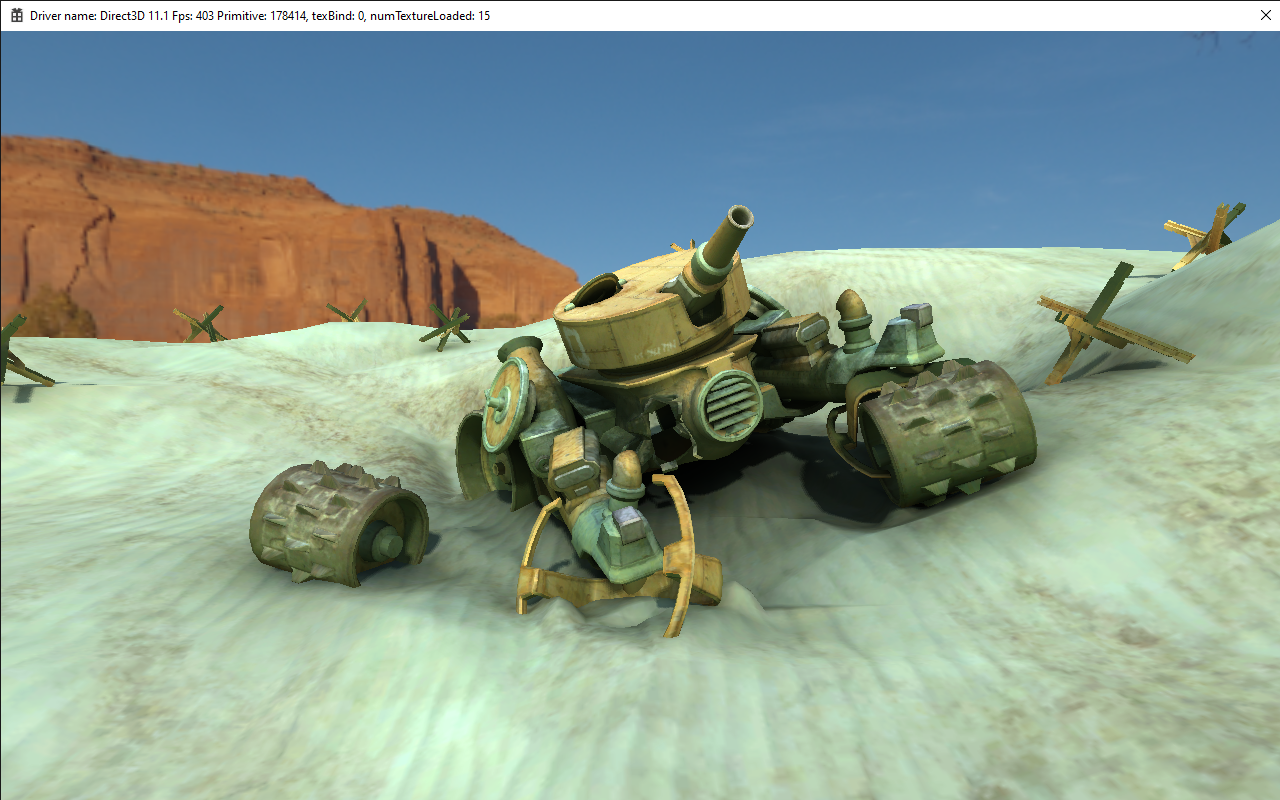
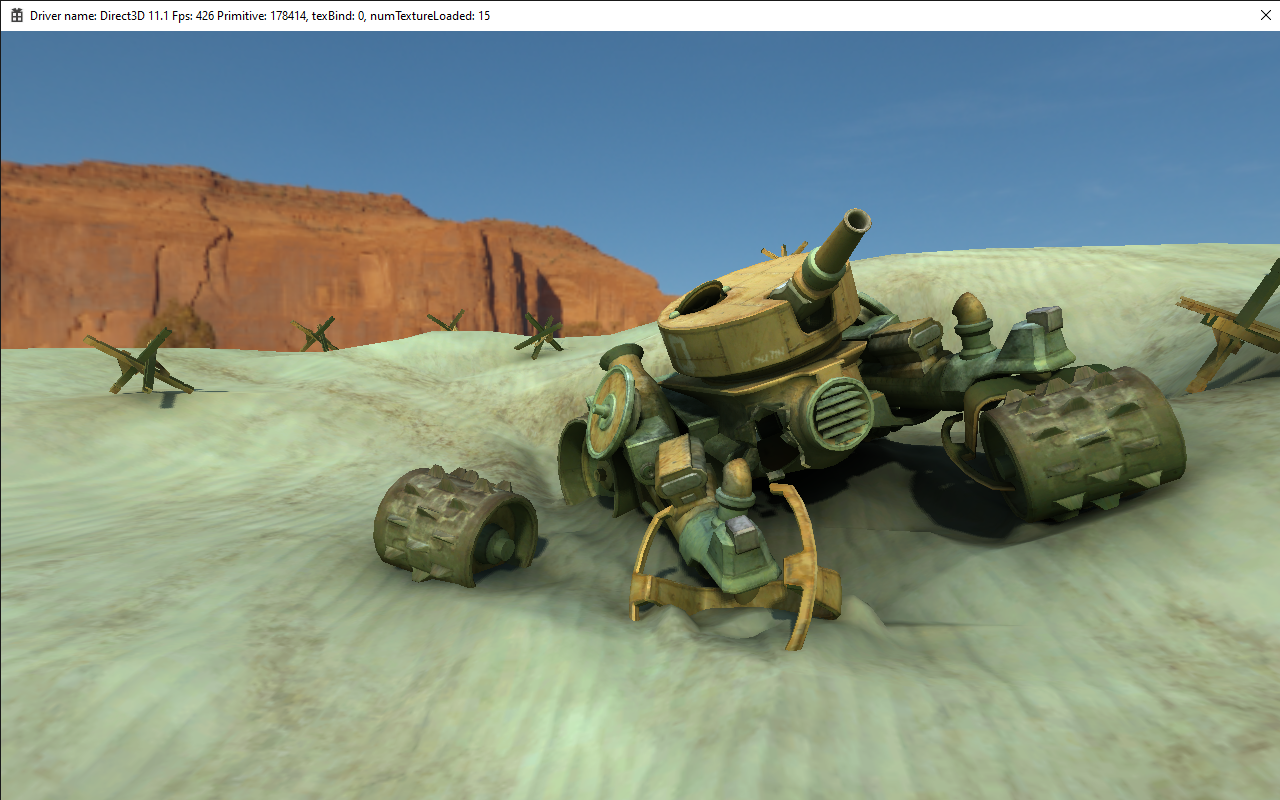
Update light color, fix error skinned mesh

diff --git a/Samples/TankScene/Source/CViewInit.cpp b/Samples/TankScene/Source/CViewInit.cpp
@@ -79,6 +79,9 @@ void CViewInit::initScene()
 	// lighting
 	CGameObject *lightObj = zone->createEmptyObject();
 	CDirectionalLight *directionalLight = lightObj->addComponent<CDirectionalLight>();
+	SColor c(255, 255, 244, 214);
+	directionalLight->setColor(SColorf(c));
+
 	CTransformEuler *lightTransform = lightObj->getTransformEuler();
 	lightTransform->setPosition(core::vector3df(2.0f, 2.0f, 2.0f));
 
@@ -172,8 +175,8 @@ void CViewInit::onUpdate()
 				// retry download
 				delete m_getFile;
 				m_getFile = NULL;
-			}
-		}
+	}
+	}
 #else
 
 		for (std::string& bundle : listBundles)
@@ -186,7 +189,7 @@ void CViewInit::onUpdate()
 #else
 			fileSystem->addFileArchive(r, false, false);
 #endif
-		}
+}
 
 		m_initState = CViewInit::InitScene;
 #endif

diff --git a/Projects/Skylicht/Engine/Source/RenderPipeline/CDeferredRP.cpp b/Projects/Skylicht/Engine/Source/RenderPipeline/CDeferredRP.cpp
@@ -48,7 +48,9 @@ namespace Skylicht
 		m_vertexColorShader(0),
 		m_textureColorShader(0),
 		m_pointLightShader(0),
-		m_pointLightShadowShader(0)
+		m_pointLightShadowShader(0),
+		m_indirectMultipler(1.2f),
+		m_directMultipler(0.7f)
 	{
 		m_type = IRenderPipeline::Deferred;
 	}
@@ -324,7 +326,7 @@ namespace Skylicht
 		if (CBaseRP::s_bakeMode == true)
 			CShaderManager::getInstance()->ShaderVec2[0] = core::vector2df(1.0f, 1.0f);
 		else
-			CShaderManager::getInstance()->ShaderVec2[0] = core::vector2df(0.7f, 1.5f);
+			CShaderManager::getInstance()->ShaderVec2[0] = core::vector2df(m_directMultipler, m_indirectMultipler);
 
 		// STEP 03:
 		// draw point lighting & spot lighting

diff --git a/Projects/Skylicht/Engine/Source/RenderPipeline/CDeferredRP.h b/Projects/Skylicht/Engine/Source/RenderPipeline/CDeferredRP.h
@@ -63,6 +63,8 @@ namespace Skylicht
 		int m_pointLightShader;
 		int m_pointLightShadowShader;
 
+		float m_indirectMultipler;
+		float m_directMultipler;
 	protected:
 
 		void initDefferredMaterial();
@@ -80,6 +82,16 @@ namespace Skylicht
 		virtual void render(ITexture *target, CCamera *camera, CEntityManager *entityManager, const core::recti& viewport);
 
 		virtual void drawMeshBuffer(CMesh *mesh, int bufferID, CEntityManager* entity, int entityID);
+
+		inline void setIndirectMultipler(float f)
+		{
+			m_indirectMultipler = f;
+		}
+
+		inline void setDirectMultipler(float f)
+		{
+			m_directMultipler = f;
+		}
 
 		static void enableRenderIndirect(bool b);
 

diff --git a/Samples/SampleFW/Context/CContext.h b/Samples/SampleFW/Context/CContext.h
@@ -20,7 +20,7 @@ protected:
 	std::vector<CLightProbe*> m_probes;
 
 	CBaseRP *m_beginRP;
-	CBaseRP	*m_rendering;
+	CDeferredRP	*m_rendering;
 	CShadowMapRP *m_shadowMapRendering;
 	CForwardRP *m_forwardRP;
 
@@ -46,6 +46,11 @@ public:
 	inline CBaseRP* getRenderPipeline()
 	{
 		return m_beginRP;
+	}
+
+	inline CDeferredRP* getDefferredRP()
+	{
+		return m_rendering;
 	}
 
 	inline CForwardRP* getForwarderRP()

diff --git a/Samples/LightmappingVertex/Source/CViewInit.cpp b/Samples/LightmappingVertex/Source/CViewInit.cpp
@@ -79,6 +79,9 @@ void CViewInit::initScene()
 	// lighting
 	CGameObject *lightObj = zone->createEmptyObject();
 	CDirectionalLight *directionalLight = lightObj->addComponent<CDirectionalLight>();
+	SColor c(255, 255, 244, 214);
+	directionalLight->setColor(SColorf(c));
+
 	CTransformEuler *lightTransform = lightObj->getTransformEuler();
 	lightTransform->setPosition(core::vector3df(2.0f, 2.0f, 2.0f));
 

diff --git a/Samples/SkinnedMesh/Source/SampleSkinnedMesh.cpp b/Samples/SkinnedMesh/Source/SampleSkinnedMesh.cpp
@@ -208,6 +208,7 @@ void SampleSkinnedMesh::onRender()
 		binormal.normalize();
 
 		Lightmapper::CLightmapper *lm = Lightmapper::CLightmapper::getInstance();
+		lm->initBaker(64);
 		Lightmapper::CSH9 sh = lm->bakeAtPosition(
 			bakeCamera,
 			m_forwardRP,

diff --git a/README.md b/README.md
@@ -133,7 +133,7 @@ Engine Components are used:
 ### Samples\SkinnedMesh
 This is demo of how to render character model with animation, models are downloaded from [mixamo](https://www.mixamo.com)
 - **DAE Collada** loader model/animation
-- **Forwarder**
+- **Forwarder** rendering
 - **Skydome**
 - **AnimationController**
 <img src="Documents/Media/Samples/sample_skinned_mesh.png"/>
@@ -147,7 +147,7 @@ This is a demo of use UnwrapUV tool to create Lightmap UV.
 <img src="Documents/Media/Samples/lightmap-uv/mesh-charts00.png" width="50%"/>
 
 ### Samples\Lightmapping
-This is a demo of use lightmapper to bake indirect lighting color into lightmap texture.
+This is a demo of use lightmapper to bake indirect lighting color on lightmap texture.
 [Project references: Lightmapper](https://github.com/ands/lightmapper)
 
 <img src="Documents/Media/Samples/lightmap/lightmapping_a.png"/>
@@ -164,7 +164,7 @@ This is a demo of use lightmapper to bake indirect lighting color into lightmap 
 <img src="Documents/Media/Samples/lightmap/rasterize_2.png"/>
 
 ### Samples\LightmappingVertex
-This is a demo of use lightmapper to set indirect lighting color into vertex color.
+This is a demo of use lightmapper to set indirect lighting color on vertex color.
 
 Engine Components are used:
 - **OBJ Wavefront** loader
